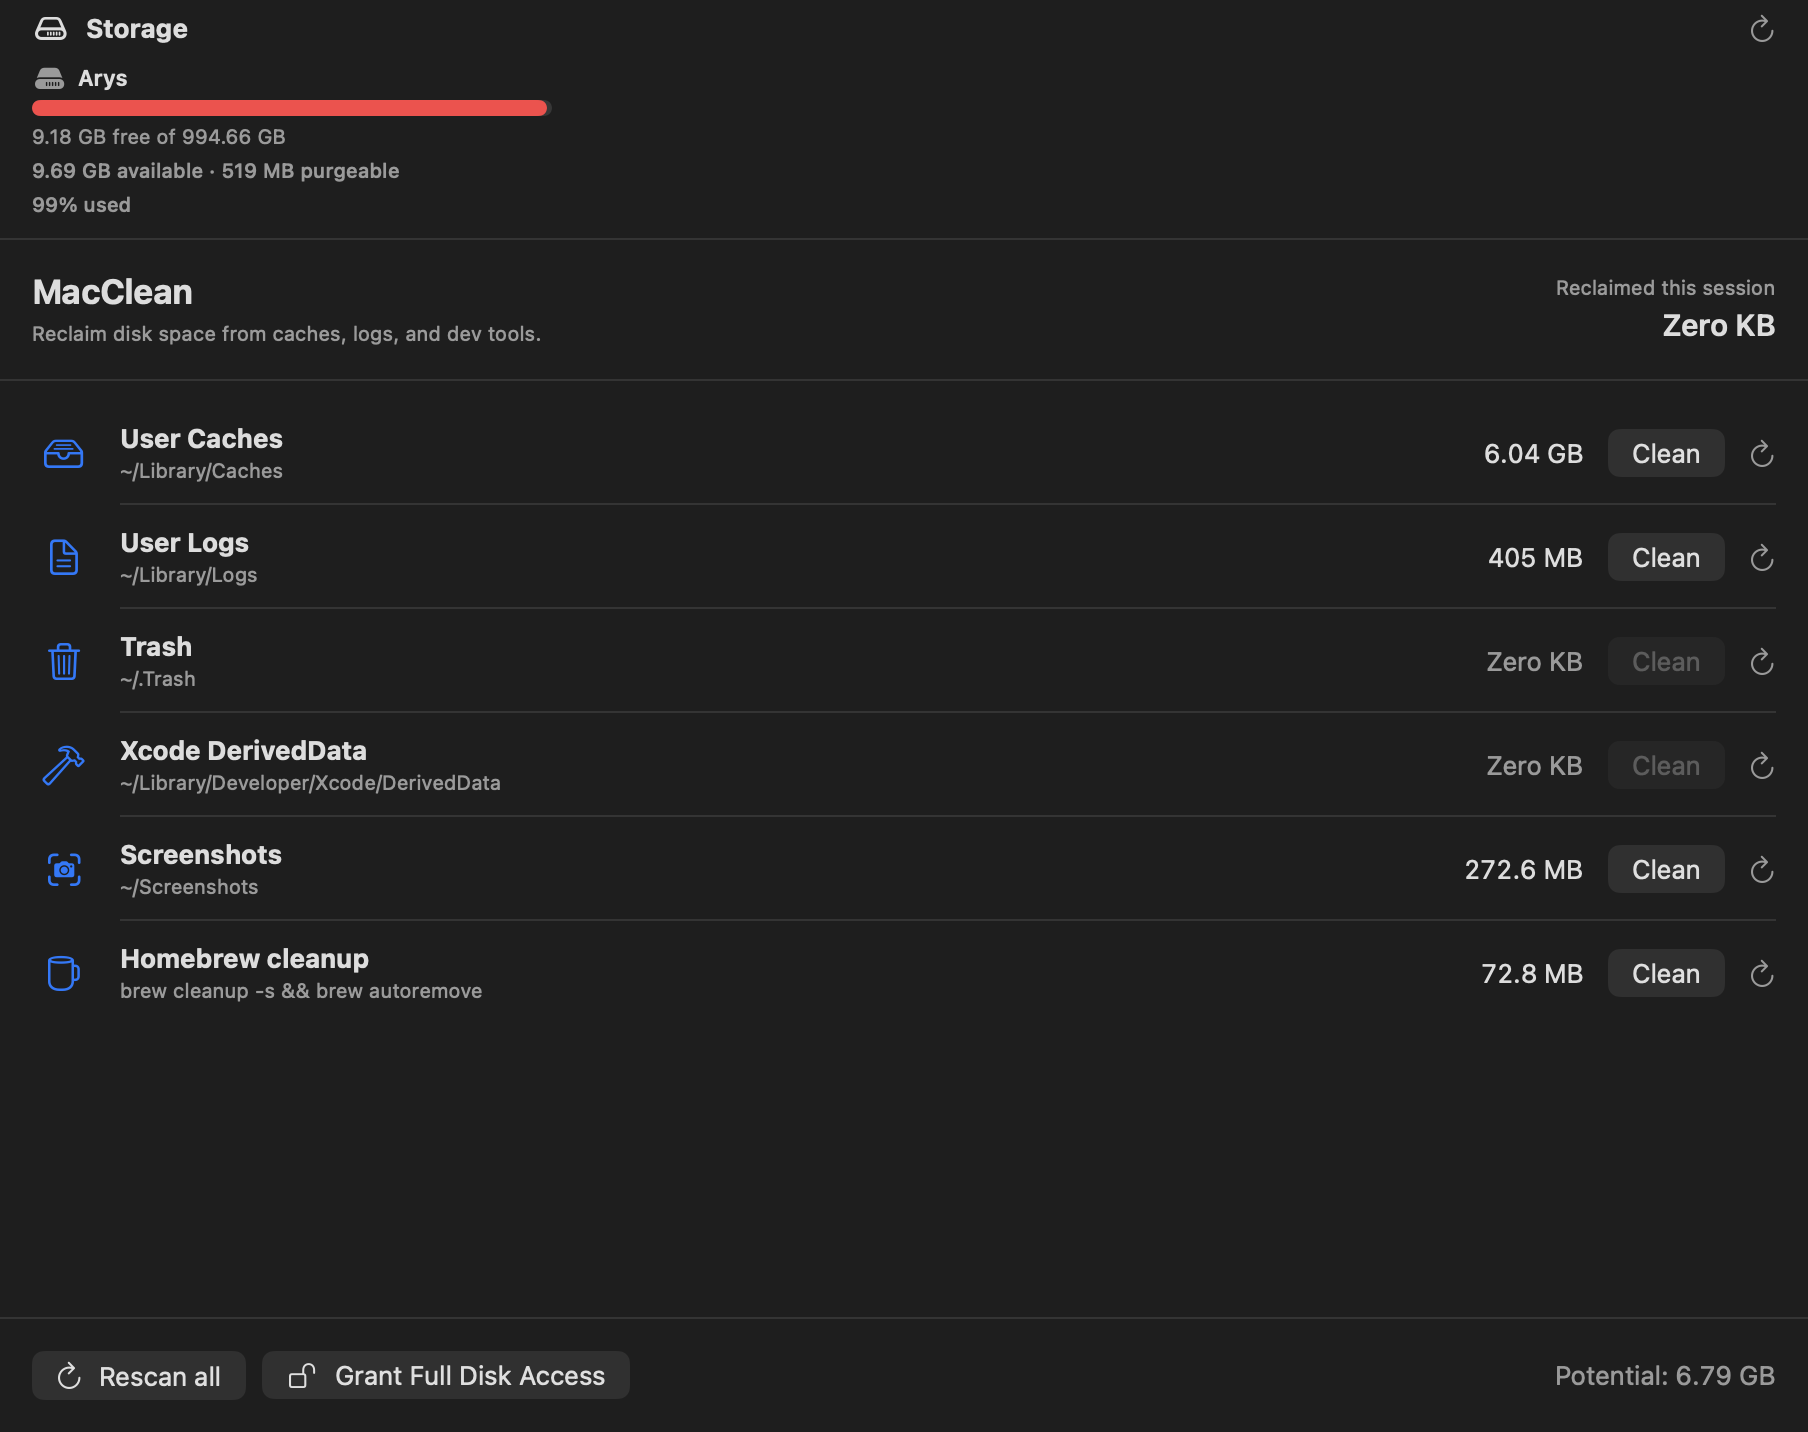
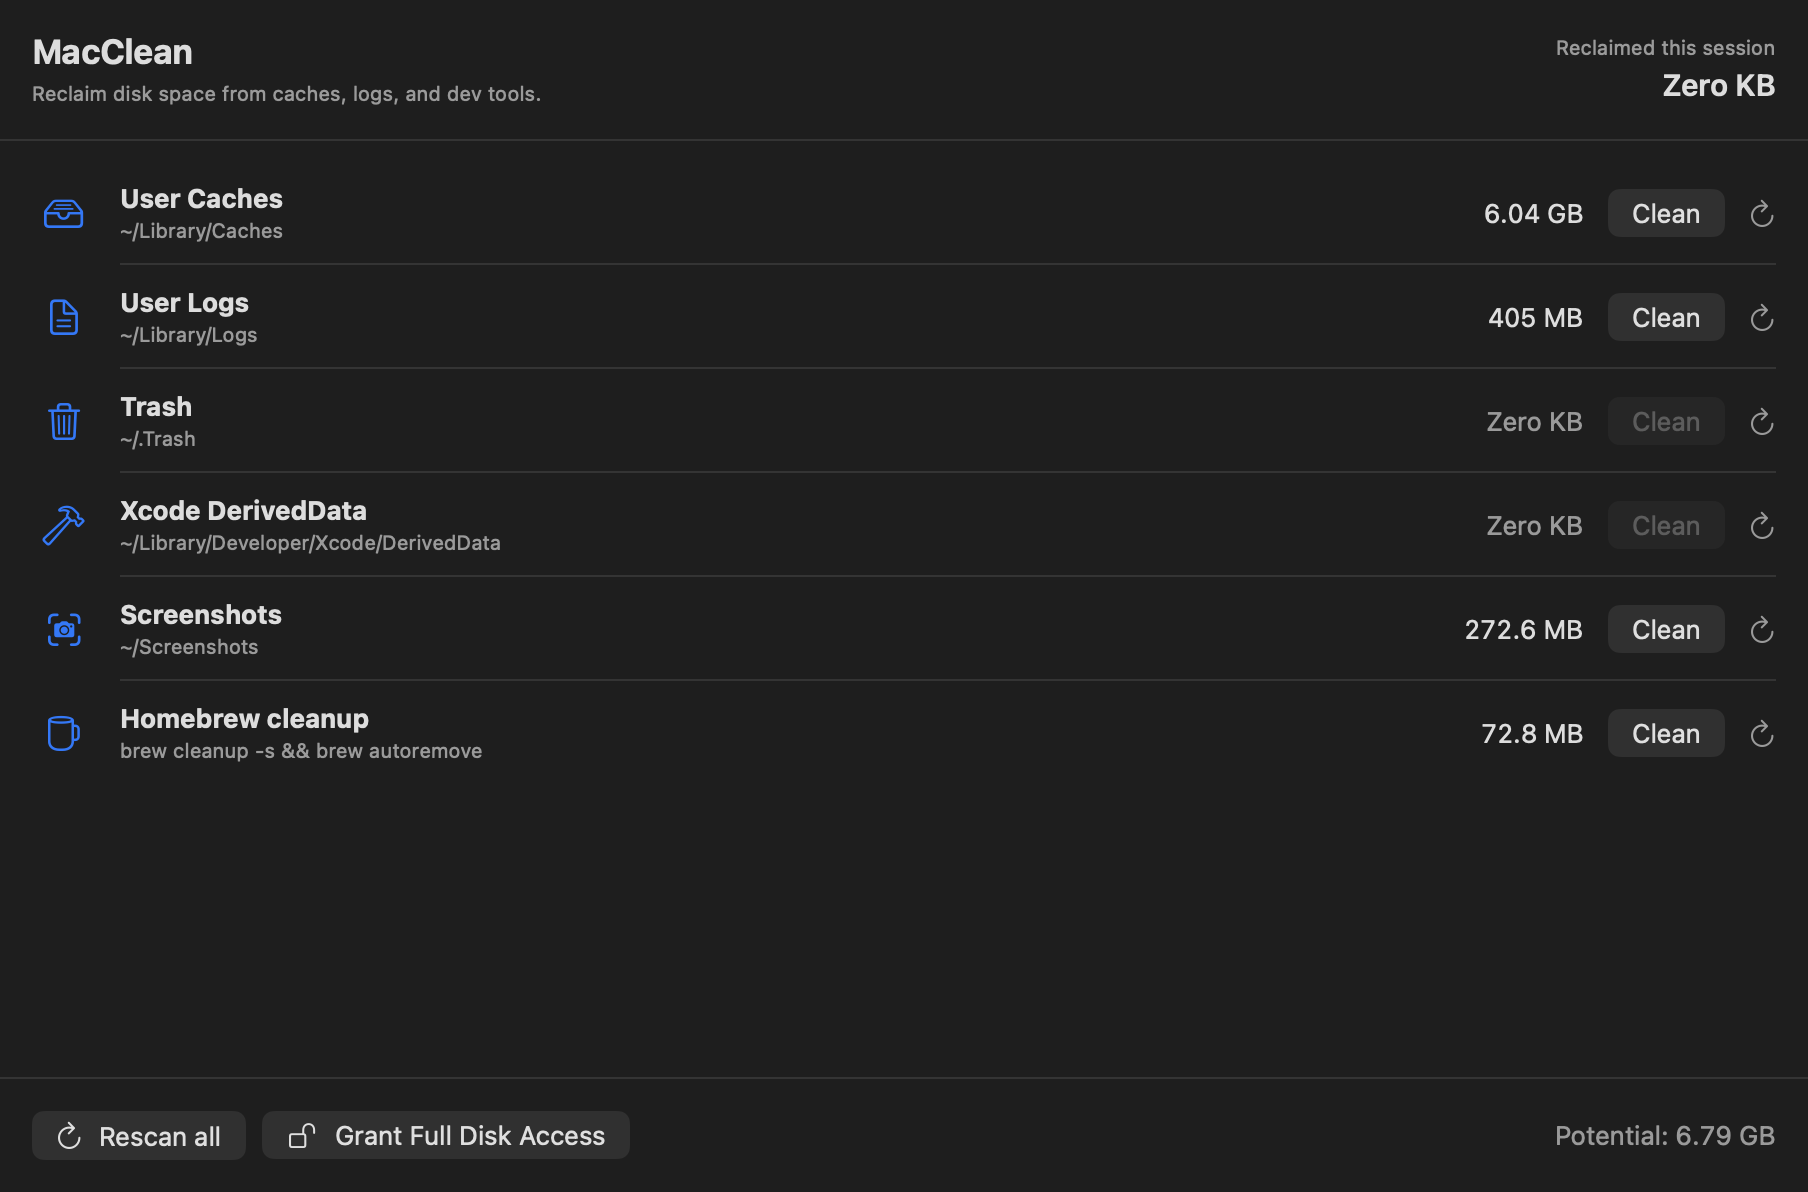
docs: crop the storage overview out of the screenshot

diff --git a/README.md b/README.md
@@ -21,7 +21,7 @@
 ---
 
 <p align="center">
-  <img src="assets/screenshot.png" width="90%" alt="MacClean Cleanup tab: storage overview above a list of cleanup targets with size estimates and Clean buttons">
+  <img src="assets/screenshot.png" width="90%" alt="MacClean Cleanup tab: cleanup targets with size estimates and a Clean button each">
 </p>
 
 <p align="center"><sub>Cleanup tab. Every target shows a size estimate and asks before deleting.</sub></p>
